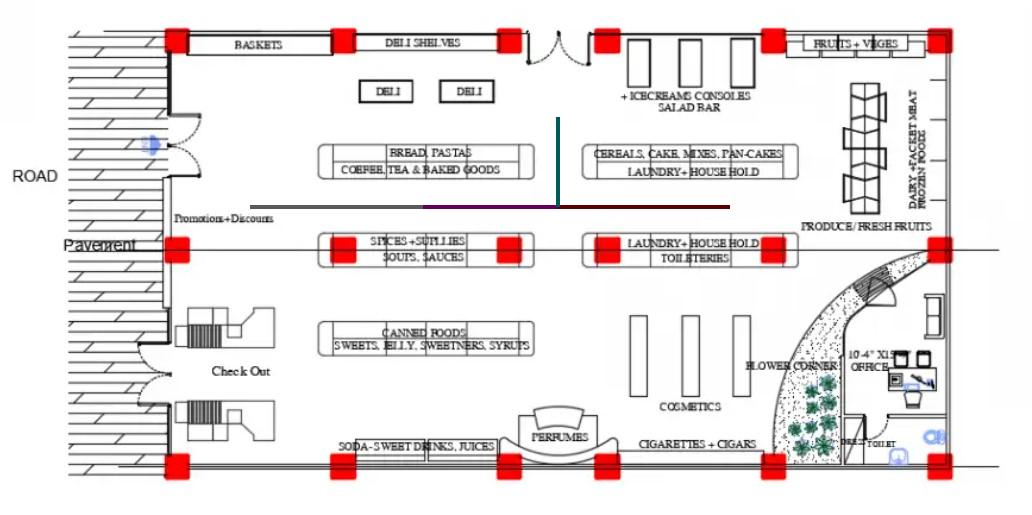
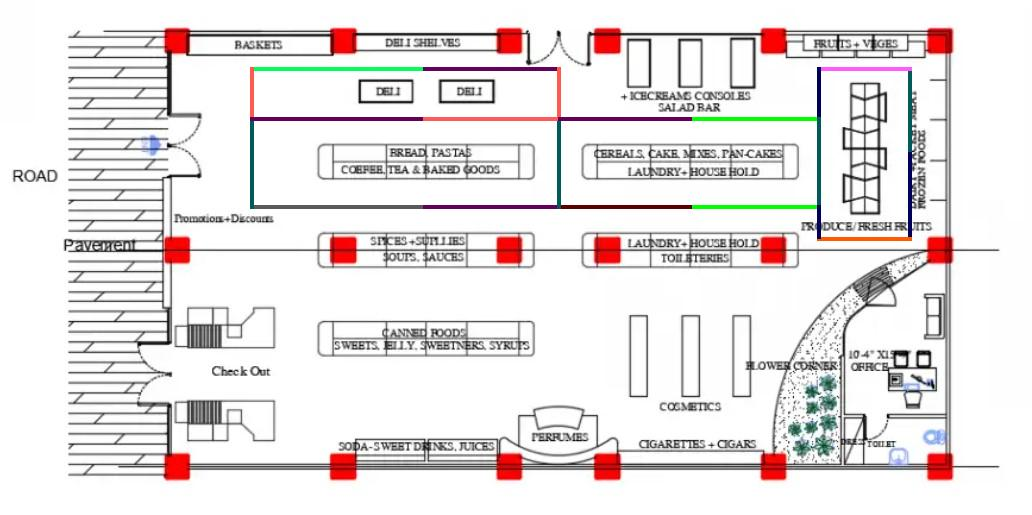
added all nodes+made the dijkstra double-sided

Changed region(s): [[0.2171, 0.1243, 0.8992, 0.4971], [0.5271, 0.3728, 0.5581, 0.4039]]

diff --git a/tester/src/App.java b/tester/src/App.java
@@ -45,110 +45,110 @@ public class App {
 
 
     public static void main(String[] args) throws IOException {
-        // String[] groceries = {"milk","tea","towel","ice cream","bread","black pepper","tomatoes"};
-        // Node nodeA = new Node("Dairy");
-        // Node nodeAb = new Node("Dairy");
-        // Node nodeAe = new Node("Dairy");
-        // Node nodeB = new Node("Bread,Pastas");
-        // Node nodeBb = new Node("Bread,Pastas");
-        // Node nodeBe = new Node("Bread,Pastas");
-        // Node nodeC = new Node("Tea");
-        // Node nodeCb = new Node("Tea");
-        // Node nodeCe = new Node("Tea");
-        // Node nodeD = new Node("Spices");
-        // Node nodeDb = new Node("Spices");
-        // Node nodeDe = new Node("Spices");
-        // Node nodeE = new Node("Cereal");
-        // Node nodeEb = new Node("Cereal");
-        // Node nodeEe = new Node("Cereal");
-        // Node nodeF = new Node("Fresh Produce");
-        // Node nodeFb = new Node("Fresh Produce");
-        // Node nodeFe = new Node("Fresh Produce");
-        // Node nodeG = new Node("Laundry");
-        // Node nodeGb = new Node("Laundry");
-        // Node nodeGe = new Node("Laundry");
-        // Node nodeH = new Node("Ice cream");
-        // Node nodeHb = new Node("Ice cream");
-        // Node nodeHe = new Node("Ice cream");
-        
-        // nodeA.addAdjacentNode(nodeAb, 1);
-        // nodeA.addAdjacentNode(nodeAe, 1);
-        // nodeB.addAdjacentNode(nodeBb, 1);
-        // nodeB.addAdjacentNode(nodeBe, 1);
-        // nodeC.addAdjacentNode(nodeCb, 1);
-        // nodeC.addAdjacentNode(nodeCe, 1);
-        // nodeD.addAdjacentNode(nodeDb, 1);
-        // nodeD.addAdjacentNode(nodeDe, 1);
-        // nodeE.addAdjacentNode(nodeEb, 1);
-        // nodeE.addAdjacentNode(nodeEe, 1);
-        // nodeF.addAdjacentNode(nodeFb, 1);
-        // nodeF.addAdjacentNode(nodeFe, 1);
-        // nodeG.addAdjacentNode(nodeGb, 1);
-        // nodeG.addAdjacentNode(nodeGe, 1);
-        // nodeH.addAdjacentNode(nodeHb, 1);
-        // nodeH.addAdjacentNode(nodeHe, 1);
-        // Dijkstra dijkstra = new Dijkstra();
-        // dijkstra.calculateShortestPath(nodeA);
-        // dijkstra.printPaths(Arrays.asList(nodeA, nodeAb));
+        String[] groceries = {"milk","tea","towel","ice cream","bread","black pepper","tomatoes"};
+        Node S = new Node("Start");
+        Node Dbl = new Node("Dbl");
+        Node Dairy = new Node("Dairy");
+        Node Dbr = new Node("Dbr");
+        Node Bb = new Node("Bb");
+        Node BC = new Node("BC");
+        Node Tb = new Node("Tb");
+        Node TL = new Node("TL");
+        Node Bread = new Node("Bread");
+        Node IcecreamCereal = new Node("IcecreamCereal");
+        Node Deli = new Node("Deli");
+        Node TeaSpices = new Node("TeaSpices");
+        Node Laundry = new Node("Laundry");
+        Node Fruit = new Node("Fruit");
+        Node Veggies = new Node("Veggies");
+        Node De = new Node("De");
+        Node Ie = new Node("Ie");
+        Node Le = new Node("Le");
 
-        Node nodeA = new Node("A");
-        Node nodeB = new Node("B");
-        Node nodeC = new Node("C");
-        Node nodeD = new Node("D");
-        Node nodeE = new Node("E");
-        Node nodeF = new Node("F");
-
-        nodeA.addAdjacentNode(nodeB, 2);
-        nodeA.addAdjacentNode(nodeC, 4);
-
-        nodeB.addAdjacentNode(nodeC, 3);
-        nodeB.addAdjacentNode(nodeD, 1);
-        nodeB.addAdjacentNode(nodeE, 5);
-
-        nodeC.addAdjacentNode(nodeD, 2);
-
-        nodeD.addAdjacentNode(nodeE, 1);
-        nodeD.addAdjacentNode(nodeF, 4);
-
-        nodeE.addAdjacentNode(nodeF, 2);
+        S.addAdjacentNode(BC, 1);//S↔BC
+        S.addAdjacentNode(Deli, 1);//S↔Deli
+        BC.addAdjacentNode(Bread, 1);//BC↔Bread
+        BC.addAdjacentNode(IcecreamCereal, 1);//BC↔IcecreamCereal
+        BC.addAdjacentNode(TL, 1);//BC↔TL
+        TL.addAdjacentNode(TeaSpices, 1);//TL↔TeaSpices
+        TL.addAdjacentNode(Laundry, 1);//TL↔Laundry
+        Dbl.addAdjacentNode(Deli, 1);//Dbl↔Deli
+        Dbl.addAdjacentNode(Bb, 1);//Dbl↔Bb
+        Bb.addAdjacentNode(Tb, 1);//Bb↔Tb
+        Bb.addAdjacentNode(Bread, 1);//Bb↔Bread
+        Tb.addAdjacentNode(TeaSpices, 1);//Tb↔TeaSpices
+        Ie.addAdjacentNode(IcecreamCereal, 1);//Ie↔IcecreamCereal
+        Ie.addAdjacentNode(Le, 1);//Ie↔Le
+        Ie.addAdjacentNode(Fruit, 1);//Ie↔Fruit
+        Le.addAdjacentNode(Laundry, 1);//Le↔Laundry
+        Le.addAdjacentNode(Veggies, 1);//Le↔Veggies
+        De.addAdjacentNode(Veggies, 1);//De↔Veggies
+        De.addAdjacentNode(Dairy, 1);//De↔Dairy
+        Dbr.addAdjacentNode(Fruit, 1);//Dbr↔Fruit
+        Dbr.addAdjacentNode(Dairy, 1);//Dbr↔Dairy
 
         Dijkstra dijkstra = new Dijkstra();
-        dijkstra.calculateShortestPath(nodeA);
-        List<Node> niggas = new LinkedList<>();
-        niggas.add(nodeA);
-        niggas.add(nodeB);
-        niggas.add(nodeC);
-        niggas.add(nodeD);
-        niggas.add(nodeE);
-        niggas.add(nodeF);
-        ArrayList<Node> groc = new ArrayList<>(3);
-        groc.add(nodeC);
-        groc.add(nodeD);
-        Node result = helper(nodeA, groc);
-        System.out.println(result.getName());
+        dijkstra.calculateShortestPath(Dbr);
+        dijkstra.printPaths(Arrays.asList(Bread, Tb));
+
+        // Node nodeA = new Node("A");
+        // Node nodeB = new Node("B");
+        // Node nodeC = new Node("C");
+        // Node nodeD = new Node("D");
+        // Node nodeE = new Node("E");
+        // Node nodeF = new Node("F");
+
+        // nodeA.addAdjacentNode(nodeB, 2);
+        // nodeA.addAdjacentNode(nodeC, 4);
+
+        // nodeB.addAdjacentNode(nodeC, 3);
+        // nodeB.addAdjacentNode(nodeD, 1);
+        // nodeB.addAdjacentNode(nodeE, 5);
+
+        // nodeC.addAdjacentNode(nodeD, 2);
+
+        // nodeD.addAdjacentNode(nodeE, 1);
+        // nodeD.addAdjacentNode(nodeF, 4);
+
+        // nodeE.addAdjacentNode(nodeF, 2);
+
+        // Dijkstra dijkstra = new Dijkstra();
+        // dijkstra.calculateShortestPath(nodeA);
+        // List<Node> niggas = new LinkedList<>();
+        // niggas.add(nodeA);
+        // niggas.add(nodeB);
+        // niggas.add(nodeC);
+        // niggas.add(nodeD);
+        // niggas.add(nodeE);
+        // niggas.add(nodeF);
+        // ArrayList<Node> groc = new ArrayList<>(3);
+        // groc.add(nodeC);
+        // groc.add(nodeD);
+        // Node result = helper(nodeA, groc);
+        // System.out.println(result.getName());
 //START OF FUNCTION ---------------------------------------------------------------------
-int shortnigga = 999999;
-int bignigga = 0;
-int whichnigga = 0;
-int whichernigga = 0;
-for(int i = 0;i<niggas.size();i++){
-    if(shortnigga > niggas.get(i).getDistance()){
-        shortnigga = niggas.get(i).getDistance();
-        whichnigga = i+1;
-    }
-    if(bignigga < niggas.get(i).getDistance()){
-        bignigga = niggas.get(i).getDistance();
-        whichernigga = i+1;
-    }
-}
+// int shortnigga = 999999;
+// int bignigga = 0;
+// int whichnigga = 0;
+// int whichernigga = 0;
+// for(int i = 0;i<niggas.size();i++){
+//     if(shortnigga > niggas.get(i).getDistance()){
+//         shortnigga = niggas.get(i).getDistance();
+//         whichnigga = i+1;
+//     }
+//     if(bignigga < niggas.get(i).getDistance()){
+//         bignigga = niggas.get(i).getDistance();
+//         whichernigga = i+1;
+//     }
+// }
 
 
-System.out.println(whichnigga);
-System.out.println(shortnigga); 
-System.out.println(whichernigga);
-System.out.println(bignigga);     
+// System.out.println(whichnigga);
+// System.out.println(shortnigga); 
+// System.out.println(whichernigga);
+// System.out.println(bignigga);     
 //END OF FUNCTION -------------------------------------------------------------------------
-        dijkstra.printPaths(List.of(nodeA, nodeB, nodeC, nodeD, nodeE, nodeF));
+        // dijkstra.printPaths(List.of(nodeA, nodeB, nodeC, nodeD, nodeE, nodeF));
 
 
 BufferedImage img = ImageIO.read(new File("../DijkstraGomla/tester/src/imageinput.jpg"));
@@ -157,22 +157,89 @@ a.setColor(new Color(90,90,90));
 a.fillRect(250, 205, 173, 4);
 var b = img.createGraphics();
 b.setColor(new Color(100,0,90));
-b.fillRect(423, 205, 173, 4);
+b.fillRect(423, 205, 135, 4);
 var c = img.createGraphics();
 c.setColor(new Color(90,0,0));
-c.fillRect(557, 205, 173, 4);
+c.fillRect(557, 205, 135, 4);
 var d = img.createGraphics();
 d.setColor(new Color(0,90,90));
-d.fillRect(556, 117, 4, 90);
-File f = new File("../DijkstraGomla/tester/src/image.jpg");
+d.fillRect(557, 117, 4, 92);
+var e = img.createGraphics();
+e.setColor(new Color(0,90,90));
+e.fillRect(250, 117, 4, 92);
+var f = img.createGraphics();
+f.setColor(new Color(100,0,90));
+f.fillRect(250, 117, 173, 4);
+var g = img.createGraphics();
+g.setColor(new Color(100,0,90));
+g.fillRect(557, 117, 135, 4);
+var h = img.createGraphics();
+h.setColor(new Color(255,90,90));
+h.fillRect(423, 117, 135, 4);
+var i = img.createGraphics();
+i.setColor(new Color(255,90,77));
+i.fillRect(557, 67, 4, 50);
+var j = img.createGraphics();
+j.setColor(new Color(100,0,90));
+j.fillRect(422, 67, 135, 4);
+var k = img.createGraphics();
+k.setColor(new Color(0,255,90));
+k.fillRect(250, 67, 173, 4);
+var l = img.createGraphics();
+l.setColor(new Color(255,90,77));
+l.fillRect(250, 67, 4, 50);
+var m = img.createGraphics();
+m.setColor(new Color(0,255,0));
+m.fillRect(692, 117, 125, 4);
+var n = img.createGraphics();
+n.setColor(new Color(0,255,0));
+n.fillRect(692, 205, 125, 4);
+var o = img.createGraphics();
+o.setColor(new Color(0,90,90));
+o.fillRect(817, 117, 4, 92);
+var p = img.createGraphics();
+p.setColor(new Color(0,90,90));
+p.fillRect(908, 67, 4, 85);
+var q = img.createGraphics();
+q.setColor(new Color(255,90,0));
+q.fillRect(817, 237, 95, 4);
+var r = img.createGraphics();
+r.setColor(new Color(255,90,255));
+r.fillRect(817, 67, 95, 4);
+var s = img.createGraphics();
+s.setColor(new Color(0,0,90));
+s.fillRect(908, 152, 4, 85);
+var t = img.createGraphics();
+t.setColor(new Color(0,0,90));
+t.fillRect(817, 67, 4, 50);
+var u = img.createGraphics();
+u.setColor(new Color(0,0,90));
+u.fillRect(817, 205, 4, 34);
+
+File fi = new File("../DijkstraGomla/tester/src/image.jpg");
 		try {
-			ImageIO.write(img, "jpg", f);
-		} catch (IOException e) {
-			e.printStackTrace();
+			ImageIO.write(img, "jpg", fi);
+		} catch (IOException ex) {
+			ex.printStackTrace();
 		}
         a.dispose();
         b.dispose();
         c.dispose();
         d.dispose();
+        e.dispose();
+        f.dispose();
+        g.dispose();
+        h.dispose();
+        i.dispose();
+        j.dispose();
+        k.dispose();
+        l.dispose();
+        m.dispose();
+        n.dispose();
+        o.dispose();
+        p.dispose();
+        q.dispose();
+        r.dispose();
+        s.dispose();
     }
 }

diff --git a/tester/src/Node.java b/tester/src/Node.java
@@ -15,7 +15,11 @@ public class Node implements Comparable<Node> {
 
 public void addAdjacentNode(Node node, int weight){
   adjacentNodes.put(node, weight);
+  node.flipaddAdjacentNode(this, weight);
 }
+public void flipaddAdjacentNode(Node node, int weight){
+    adjacentNodes.put(node, weight);
+  }
 
 public int compareTo(Node node){
   return Integer.compare(this.distance, node.getDistance());
